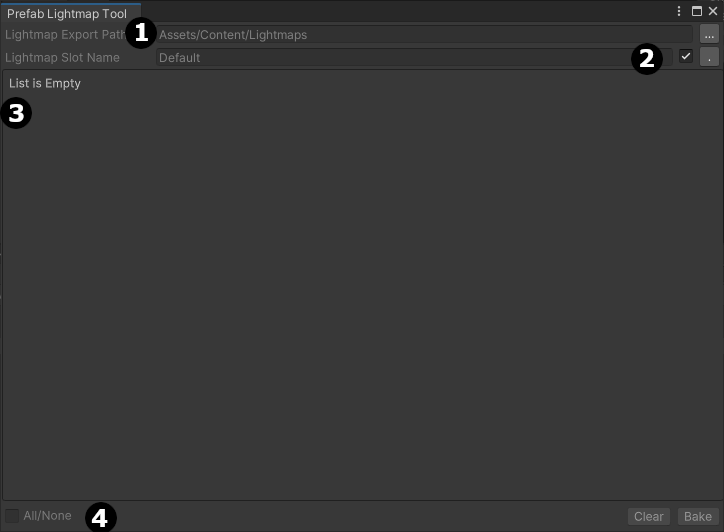
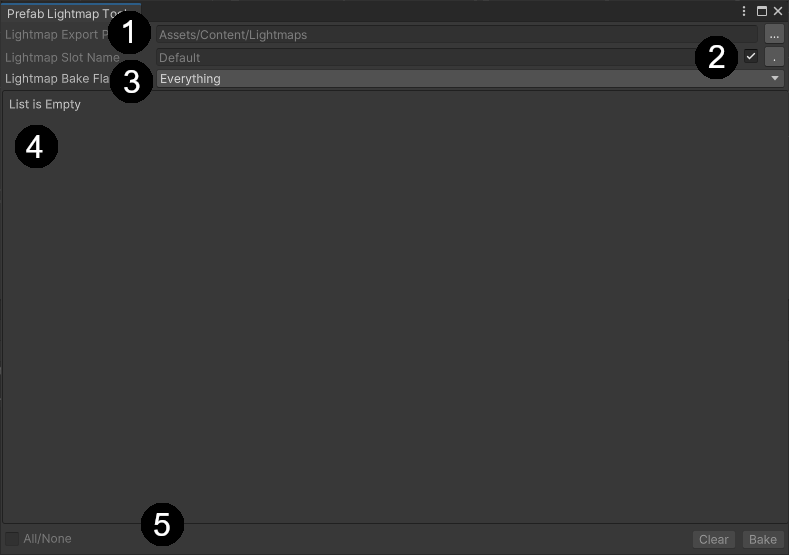
#45 Updated the documentation

diff --git a/docs/USAGE.md b/docs/USAGE.md
@@ -24,8 +24,10 @@ The user interface is broken down into 4 distinct sections:
 	- The name of the slot to bake for. *By default the "Default" slot is used*
 	- The check box disables the default slot name and allows the user to input a custom name for the slot to bake to.
 	- The button allows for manual "PrefabLightmapData ListView" refreshing, however, *the "PrefabLightmapData ListView" is also updated when the tool gains focus*
-3. PrefabLightmapData ListView - Used to select which objects to bake for that have the PrefabLightmapData component added to them
-4. Misc Functions
+3. Lightmap Baking Flags - Toggle various differeing baking options to be use on the current bake
+	- Isolate - Cuases each prefab to be baked in isolation (disabling all other lightmap instances before performing the baking operation)
+4. PrefabLightmapData ListView - Used to select which objects to bake for that have the PrefabLightmapData component added to them
+5. Misc Functions
 	- The initial check box will allow the user to quickly check or uncheck all items in the "PrefabLightmapData ListView"
 	- The clear button will remove the lightmap slot information and stored data for the selected objects and the value of the "Lightmap Bake Slot"
 	- Bake a new lightmap environment and add it to the "Lightmap Bake Slot" and export the files to the "Export Location"
